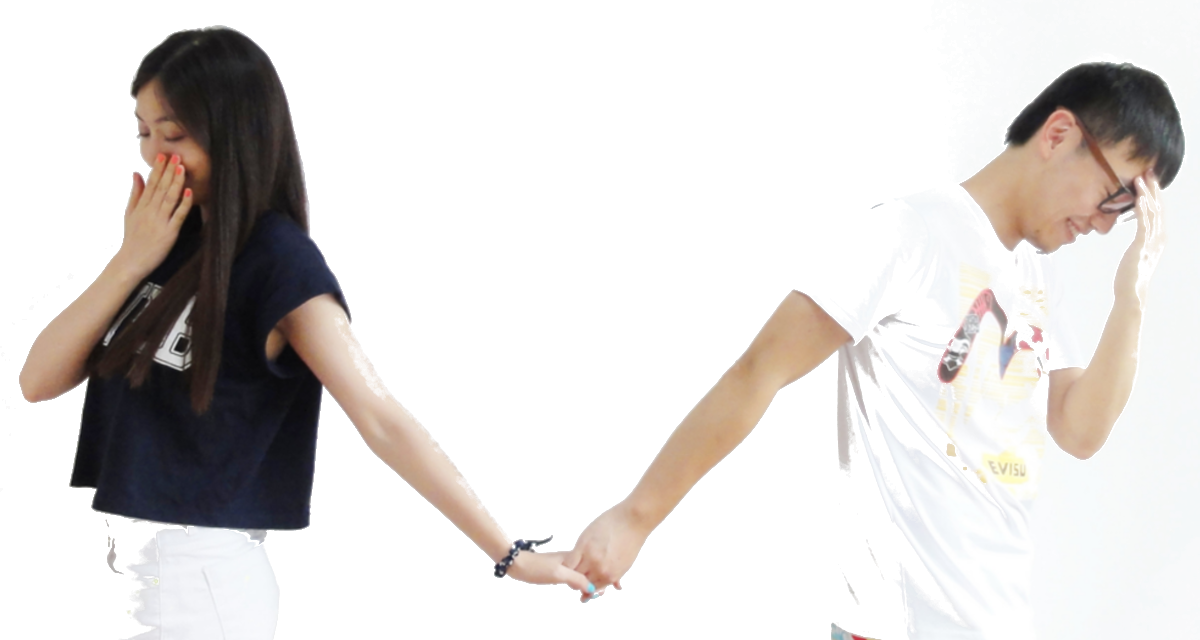
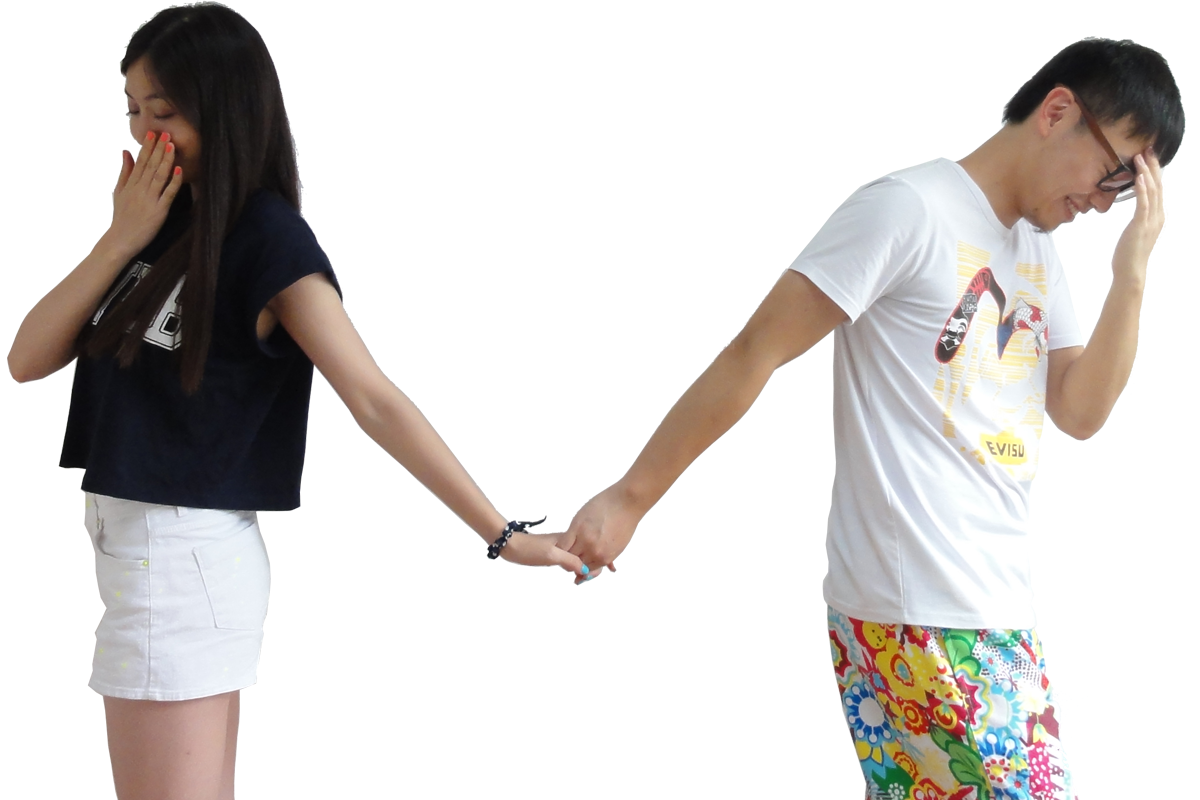
modify background image

diff --git a/public/stylesheets/style.css b/public/stylesheets/style.css
@@ -8,13 +8,16 @@ a {
 
 .main {
   width: 1200px;
-  height: 640px;
+  height: 800px;
   margin: 0 auto;
   background: url(../images/background.png);
 }
 
 .video {
-  top: 320px;
-  left: 400px;
+  top: 360px;
+  left: 420px;
+  background: red;
+  width: 400px;
+  height: 200px;
   position: absolute;
 }
